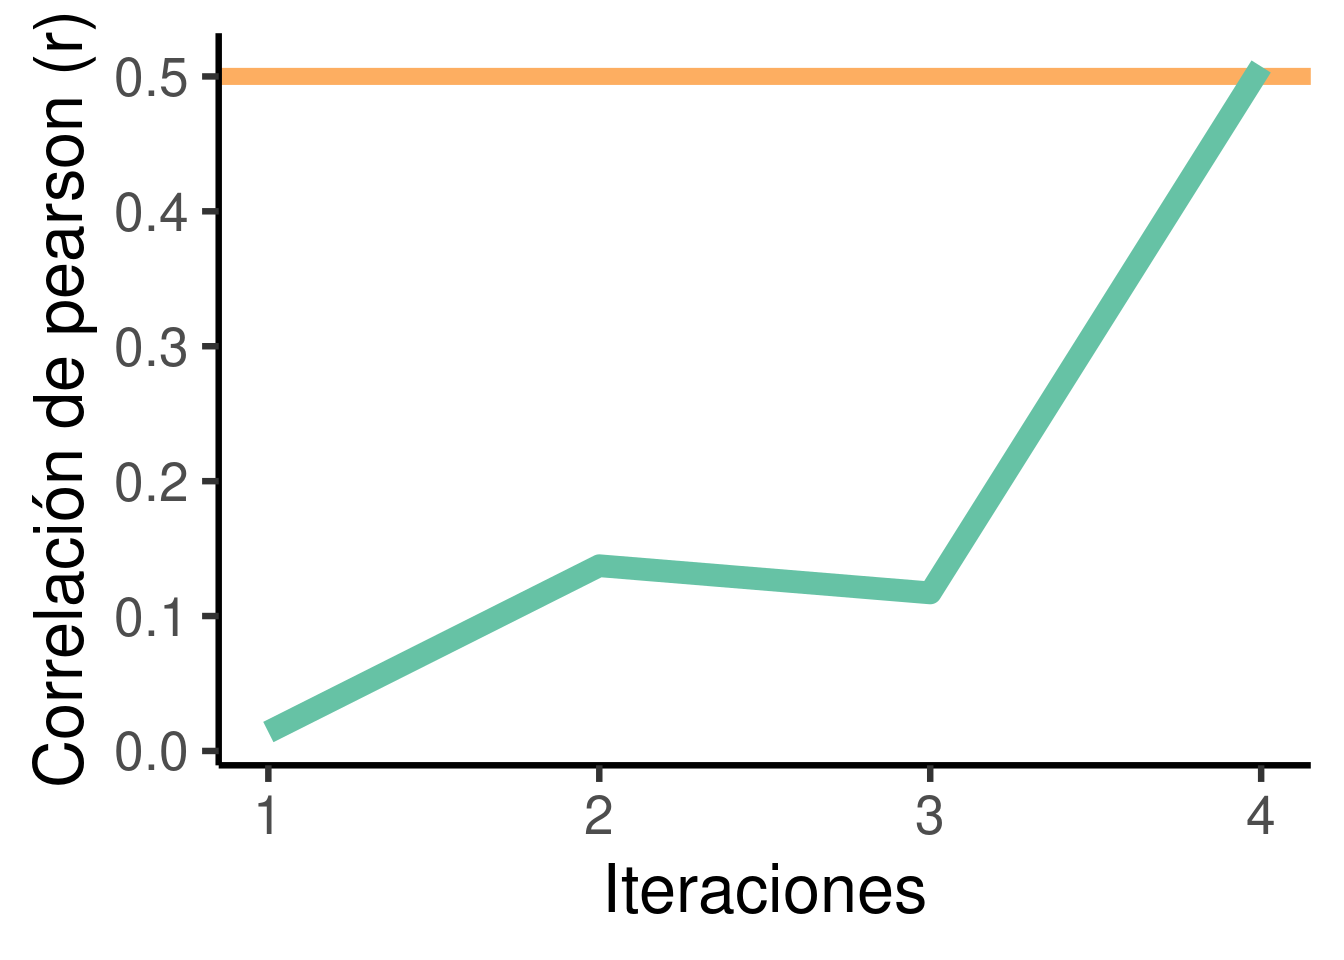
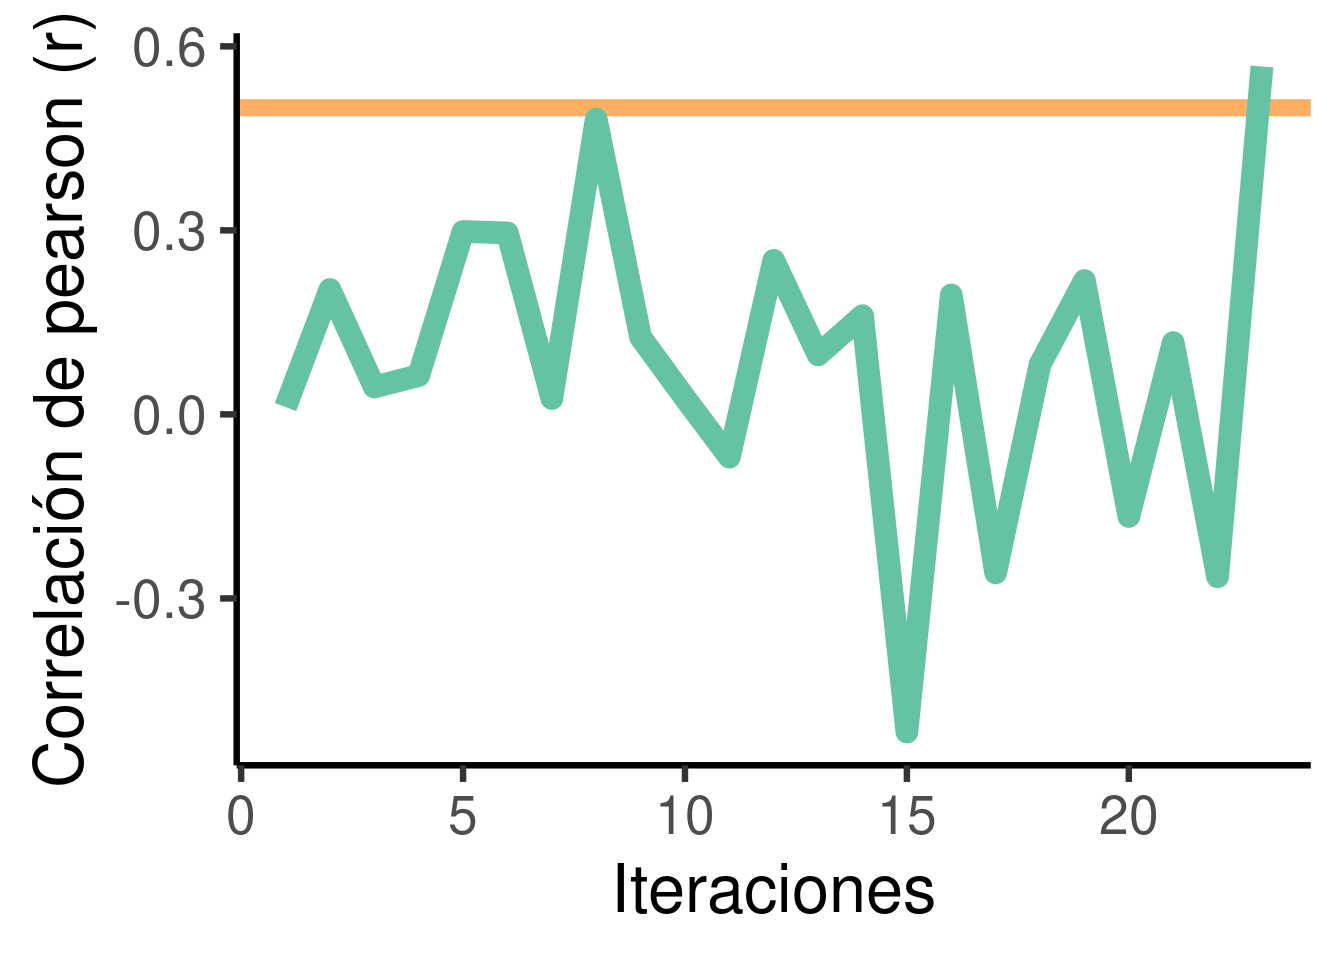
update

diff --git a/docs/bucles.html b/docs/bucles.html
@@ -904,17 +904,17 @@ pre.numberSource code
 <div class="sourceCode cell-code" id="cb41"><pre class="sourceCode numberSource r numberLines lineAnchors code-with-copy"><code class="sourceCode r"><span id="cb41-1"><a href="#cb41-1"></a><span class="fu">replicate</span>(<span class="at">n =</span> <span class="dv">3</span>, <span class="at">expr =</span> <span class="fu">rnorm</span>(<span class="dv">10</span>))</span></code><button title="Copy to Clipboard" class="code-copy-button"><i class="bi"></i></button></pre></div>
 </details>
 <div class="cell-output cell-output-stdout">
-<pre><code>          [,1]     [,2]      [,3]
- [1,] -0.62142  0.92367 -1.846658
- [2,] -0.15227 -0.34703 -0.265150
- [3,]  0.40732  0.70866 -1.994632
- [4,] -1.54494  0.44808  1.984745
- [5,]  2.31958 -0.22848  0.495151
- [6,] -0.19080 -0.71791 -1.135244
- [7,] -0.88556 -3.16415  1.609385
- [8,] -0.06310 -0.31079 -0.657669
- [9,]  0.90863  1.01428 -0.006529
-[10,]  0.63056 -0.28619 -0.330283</code></pre>
+<pre><code>          [,1]      [,2]     [,3]
+ [1,]  0.67946 -0.443930  1.39924
+ [2,] -0.37338 -0.351813  0.80717
+ [3,] -0.70771 -0.494880  0.36155
+ [4,]  0.93686 -2.002843  0.53287
+ [5,] -1.81850 -1.216109 -0.10165
+ [6,] -1.44841 -0.392135  0.37987
+ [7,] -1.82485  1.014980 -0.55133
+ [8,] -0.89778 -0.082003  1.53042
+ [9,] -0.23814 -1.458798  0.23858
+[10,]  0.37764 -1.621710 -0.48241</code></pre>
 </div>
 </div>
 <p>&nbsp;</p>
@@ -974,7 +974,7 @@ pre.numberSource code
 <span id="cb43-21"><a href="#cb43-21"></a><span class="fu">head</span>(cc_vector)</span></code><button title="Copy to Clipboard" class="code-copy-button"><i class="bi"></i></button></pre></div>
 </details>
 <div class="cell-output cell-output-stdout">
-<pre><code>[1] 0.014035 0.137306 0.117152 0.507356</code></pre>
+<pre><code>[1] 0.012116 0.203605 0.044796 0.063337 0.298206 0.295851</code></pre>
 </div>
 </div>
 <p>&nbsp;</p>

diff --git a/docs/fundamentos_de_r.html b/docs/fundamentos_de_r.html
@@ -126,7 +126,7 @@ code span.wa { color: #60a0b0; font-weight: bold; font-style: italic; } /* Warni
 <link href="site_libs/lightable-0.0.1/lightable.css" rel="stylesheet">
 
 
-<link rel="stylesheet" href="styles.scss">
+<link rel="stylesheet" href="styles.css">
 </head>
 
 <body class="floating nav-fixed">
